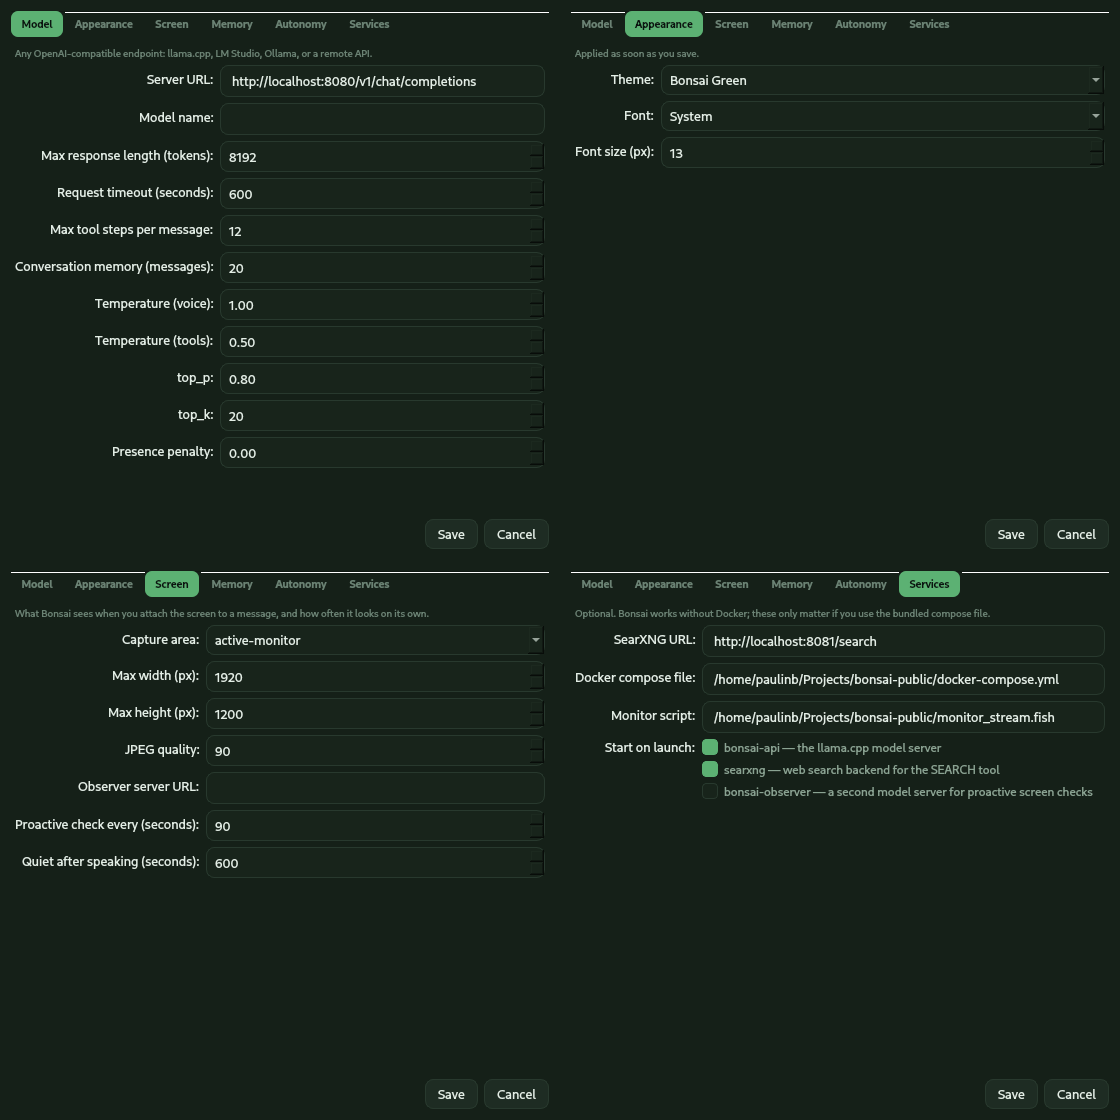
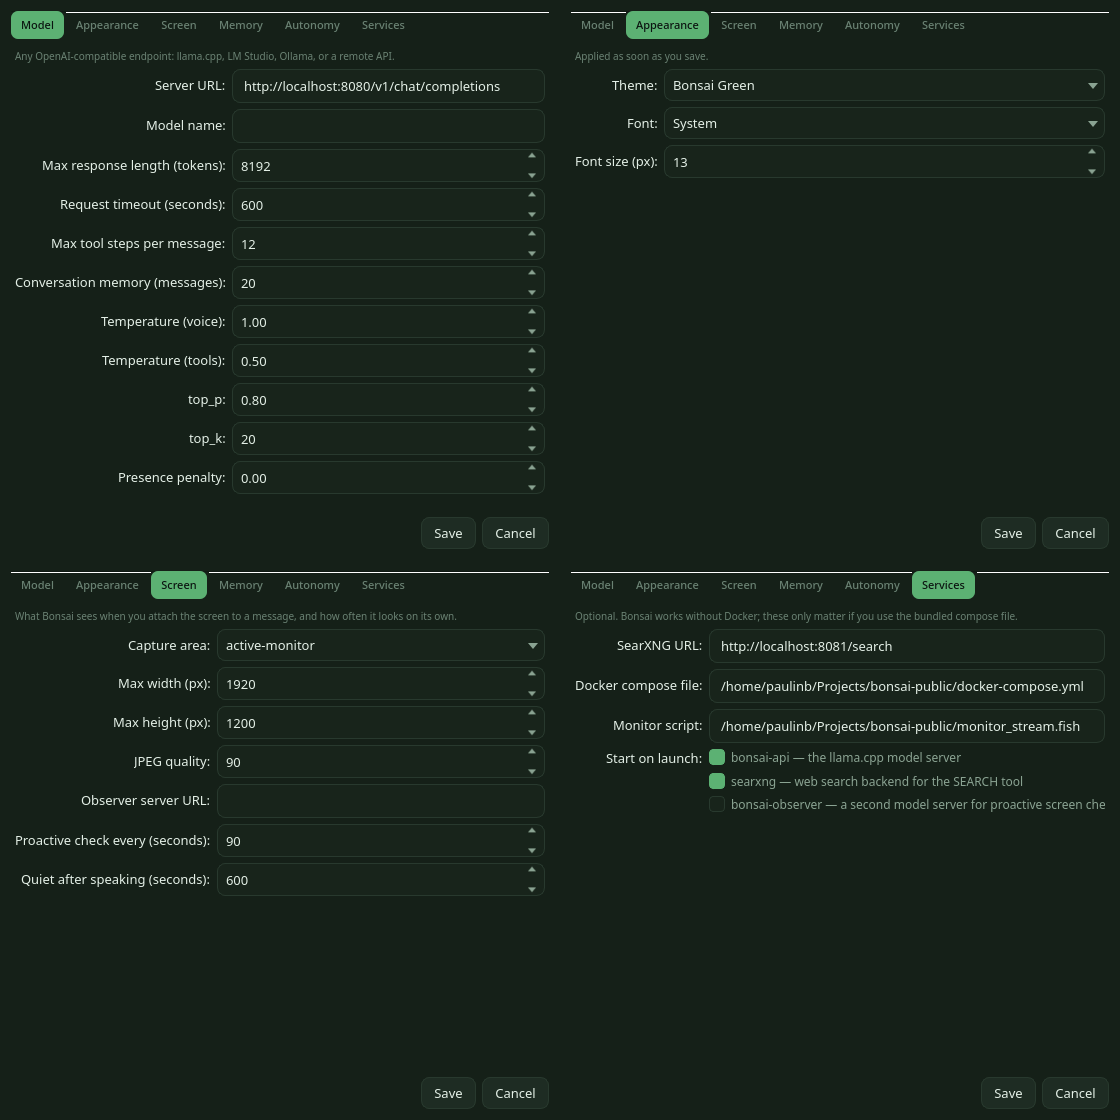
Theme the controls Qt draws in a system colour
The trusted-folders picker showed the sidebar through it in every theme:
'#sidebar QWidget { background: transparent }' exists so containers do not
paint over the sidebar, but an id selector outranks the plain QComboBox
rule further down, so it reached the controls too. Inputs in the sidebar
get their field colour back at matching specificity.

Combo and spin arrows were system grey everywhere. Qt draws those glyphs
itself only while the sub-control is unstyled - touching it at all removes
them - so the replacement is generated per palette and cached, which is
what finally lets them match the text beside them.

diff --git a/bonsai/theme.py b/bonsai/theme.py
@@ -1,5 +1,9 @@
 """Colours, stylesheet, and how rendered documents are formatted."""
 
+from pathlib import Path
+
+from .config import DATA_DIR
+
 from PyQt6.QtGui import (
     QColor, QTextCursor, QTextFrameFormat, QTextTable,
 )
@@ -116,6 +120,40 @@ def system_font_family():
     return _installed_ui_font
 
 
+def arrow_icon(colour, pointing="down"):
+    """Path to a small chevron in `colour`, pointing up or down, or None.
+
+    Qt draws a combo box's arrow itself only while ::drop-down is left alone; touching
+    that sub-control at all removes the native arrow, and an image is then the only way
+    to put one back. So the arrow is generated per palette, which is also what lets it
+    match the text beside it instead of staying system grey in every theme."""
+    try:
+        from PyQt6.QtCore import QPointF, Qt
+        from PyQt6.QtGui import QBrush, QImage, QPainter, QPolygonF
+        target = (Path(DATA_DIR) / "arrows"
+                  / f"chevron-{pointing}-{colour.lstrip('#')}.png")
+        if target.exists():
+            return target
+        target.parent.mkdir(parents=True, exist_ok=True)
+        size = 20
+        image = QImage(size, size, QImage.Format.Format_ARGB32)
+        image.fill(Qt.GlobalColor.transparent)
+        painter = QPainter(image)
+        try:
+            painter.setRenderHint(QPainter.RenderHint.Antialiasing)
+            painter.setPen(Qt.PenStyle.NoPen)
+            painter.setBrush(QBrush(QColor(colour)))
+            points = ([QPointF(5, 8), QPointF(15, 8), QPointF(10, 14)]
+                      if pointing == "down"
+                      else [QPointF(5, 13), QPointF(15, 13), QPointF(10, 7)])
+            painter.drawPolygon(QPolygonF(points))
+        finally:
+            painter.end()
+        return target if image.save(str(target)) else None
+    except Exception:
+        return None
+
+
 def palette(name=None):
     """The palette by name, falling back rather than raising on an unknown one."""
     if isinstance(name, bool):          # legacy: stylesheet(dark=True)
@@ -145,7 +183,31 @@ def stylesheet(theme=None, font=None, font_size=13):
     `theme` takes a palette name; a bool still works and means dark or light, so old
     callers and saved settings keep behaving."""
     c = palette(theme)
-    return f"""
+    # Spin buttons and the combo arrow are drawn by Qt in a system colour that no
+    # palette reaches. Styling the sub-control at all removes Qt's own glyph, so the
+    # replacement has to be supplied - which is what finally lets them match the text.
+    down = arrow_icon(c["muted"], "down")
+    up = arrow_icon(c["muted"], "up")
+    arrow_rules = (f"""
+QComboBox::drop-down {{ background: transparent; border: none; width: 22px; }}
+QComboBox::down-arrow {{ image: url("{Path(down).as_posix()}");
+                         width: 20px; height: 20px; }}
+
+QSpinBox::up-button, QDoubleSpinBox::up-button,
+QSpinBox::down-button, QDoubleSpinBox::down-button {{
+    subcontrol-origin: border; background: transparent; border: none;
+    width: 20px; height: 13px; right: 3px; }}
+QSpinBox::up-button, QDoubleSpinBox::up-button {{ subcontrol-position: top right; }}
+QSpinBox::down-button, QDoubleSpinBox::down-button {{ subcontrol-position: bottom right; }}
+QSpinBox::up-button:hover, QDoubleSpinBox::up-button:hover,
+QSpinBox::down-button:hover, QDoubleSpinBox::down-button:hover {{
+    background: {c['hover']}; border-radius: 4px; }}
+QSpinBox::up-arrow, QDoubleSpinBox::up-arrow {{
+    image: url("{Path(up).as_posix()}"); width: 16px; height: 16px; }}
+QSpinBox::down-arrow, QDoubleSpinBox::down-arrow {{
+    image: url("{Path(down).as_posix()}"); width: 16px; height: 16px; }}
+""" if down and up else "")
+    return arrow_rules + f"""
 QWidget {{
     background: {c['surface']}; color: {c['text']};
     font-family: {font_stack(font)};
@@ -155,7 +217,15 @@ QToolTip {{ background: {c['raised']}; color: {c['text']};
             border: 1px solid {c['border']}; padding: 4px 6px; }}
 
 #sidebar {{ background: {c['bg']}; border-right: 1px solid {c['border']}; }}
+/* Containers inside the sidebar must not paint `surface` over it. That blanket rule
+   also reaches the controls, though, and it outranks the plain QComboBox rule further
+   down - an id selector beats a bare type one whatever the order - so the folder
+   picker came out transparent in every theme while the box above it tinted correctly.
+   Inputs get their field colour put back here, at matching specificity. */
 #sidebar QWidget {{ background: transparent; }}
+#sidebar QComboBox, #sidebar QLineEdit, #sidebar QSpinBox {{
+    background: {c['field']}; color: {c['text']}; }}
+#sidebar QComboBox:hover {{ border-color: {c['accent']}; }}
 #appName {{ font-size: 14px; font-weight: 600; padding: 2px; }}
 #sectionLabel {{ color: {c['faint']}; font-size: 10px; font-weight: 700;
                  letter-spacing: 0.9px; padding: 2px; }}

diff --git a/tests/test_theme.py b/tests/test_theme.py
@@ -120,6 +120,47 @@ check("a machine with none of them falls back to the plain stack",
       ga.font_stack("System"), ga.FONT_STACKS["System"])
 ga.theme._installed_ui_font = "unset"
 
+print("\n-- controls are painted in the theme, not in system grey --")
+from PyQt6.QtGui import QColor
+
+def sampled(widget, x, y):
+    shot = widget.grab().toImage()
+    return QColor(shot.pixel(x, y)).name()
+
+for theme in ("Midnight", "Cherry Blossom"):
+    win.settings["theme"] = theme
+    win.apply_theme()
+    settle()
+    field = QColor(ga.PALETTES[theme]["field"]).name()
+    sidebar = QColor(ga.PALETTES[theme]["bg"]).name()
+    got = sampled(win.trust_picker, 6, win.trust_picker.height() // 2)
+    # The bug: '#sidebar QWidget { background: transparent }' outranks the plain
+    # QComboBox rule, so the folder picker showed the sidebar through it in every
+    # theme while the box above it tinted correctly.
+    check(f"{theme}: the folder picker is a field, not the sidebar", got, field)
+    check(f"  {theme}: and not the sidebar colour", got == sidebar, False)
+
+print("\n-- the arrows are generated per palette --")
+down = ga.arrow_icon("#8b8b93", "down")
+up = ga.arrow_icon("#8b8b93", "up")
+check("a down chevron is produced", down is not None and Path(down).exists(), True)
+check("and an up one", up is not None and Path(up).exists(), True)
+check("they are different files", down != up, True)
+check("a different colour is a different file",
+      ga.arrow_icon("#ff0000", "down") != down, True)
+check("asking twice reuses the file", ga.arrow_icon("#8b8b93", "down"), down)
+before = Path(down).stat().st_mtime_ns
+ga.arrow_icon("#8b8b93", "down")
+check("and does not redraw it", Path(down).stat().st_mtime_ns, before)
+
+from PyQt6.QtGui import QImage
+glyph = QImage(str(down))
+check("the chevron has pixels in it",
+      any(QColor(glyph.pixel(x, y)).alpha() > 0
+          for x in range(glyph.width()) for y in range(glyph.height())), True)
+check("the stylesheet points at it", Path(down).as_posix() in ga.stylesheet("Midnight"), True)
+check("spin buttons use them too", "QSpinBox::up-arrow" in ga.stylesheet("Midnight"), True)
+
 check("a settings file naming no known theme still paints",
       (win.settings.__setitem__("theme", "Deleted Theme"), win.theme_now())[1]
       in ga.PALETTES, True)

diff --git a/bonsai/app.py b/bonsai/app.py
@@ -469,6 +469,7 @@ class Bonsai(QWidget):
         trust_row = QHBoxLayout()
         trust_row.setSpacing(4)
         self.trust_picker = QComboBox()
+        self.trust_picker.setObjectName("trustPicker")
         trust_row.addWidget(self.trust_picker, stretch=1)
         remove_trust = QPushButton("−")
         remove_trust.setObjectName("ghost")

diff --git a/bonsai/config.py b/bonsai/config.py
@@ -27,7 +27,7 @@ except ImportError:
     yaml = None
 
 
-APP_VERSION = "2026-09-16-fonts"
+APP_VERSION = "2026-09-16-controls"
 
 
 # Where the repo lives, for the optional files that ship beside it.

diff --git a/README.md b/README.md
@@ -110,6 +110,12 @@ disagree with your choice.
 
 *Midnight · Paper · Bonsai Green · Cherry Blossom · Sumi Ink · Sea Glass*
 
+Settings are grouped rather than stacked in one long list, and follow the theme too —
+including the spin and dropdown arrows, which Qt otherwise draws in a system colour no
+palette reaches.
+
+![Settings](docs/settings.png)
+
 Every palette shares the same keys, so adding one is a dict in
 [`bonsai/theme.py`](bonsai/theme.py) and nothing else. There is a test that holds each
 one to a contrast floor — body text at 7:1, muted text and anything on the accent at
@@ -161,7 +167,7 @@ point at your own project folder.
 QT_QPA_PLATFORM=offscreen python3 tests/run_all.py
 ```
 
-1,359 checks, no model server required. They run against a temporary data directory, so a test run cannot touch your own settings, memory or chats.
+1,372 checks, no model server required. They run against a temporary data directory, so a test run cannot touch your own settings, memory or chats.
 
 ## Licence
 
